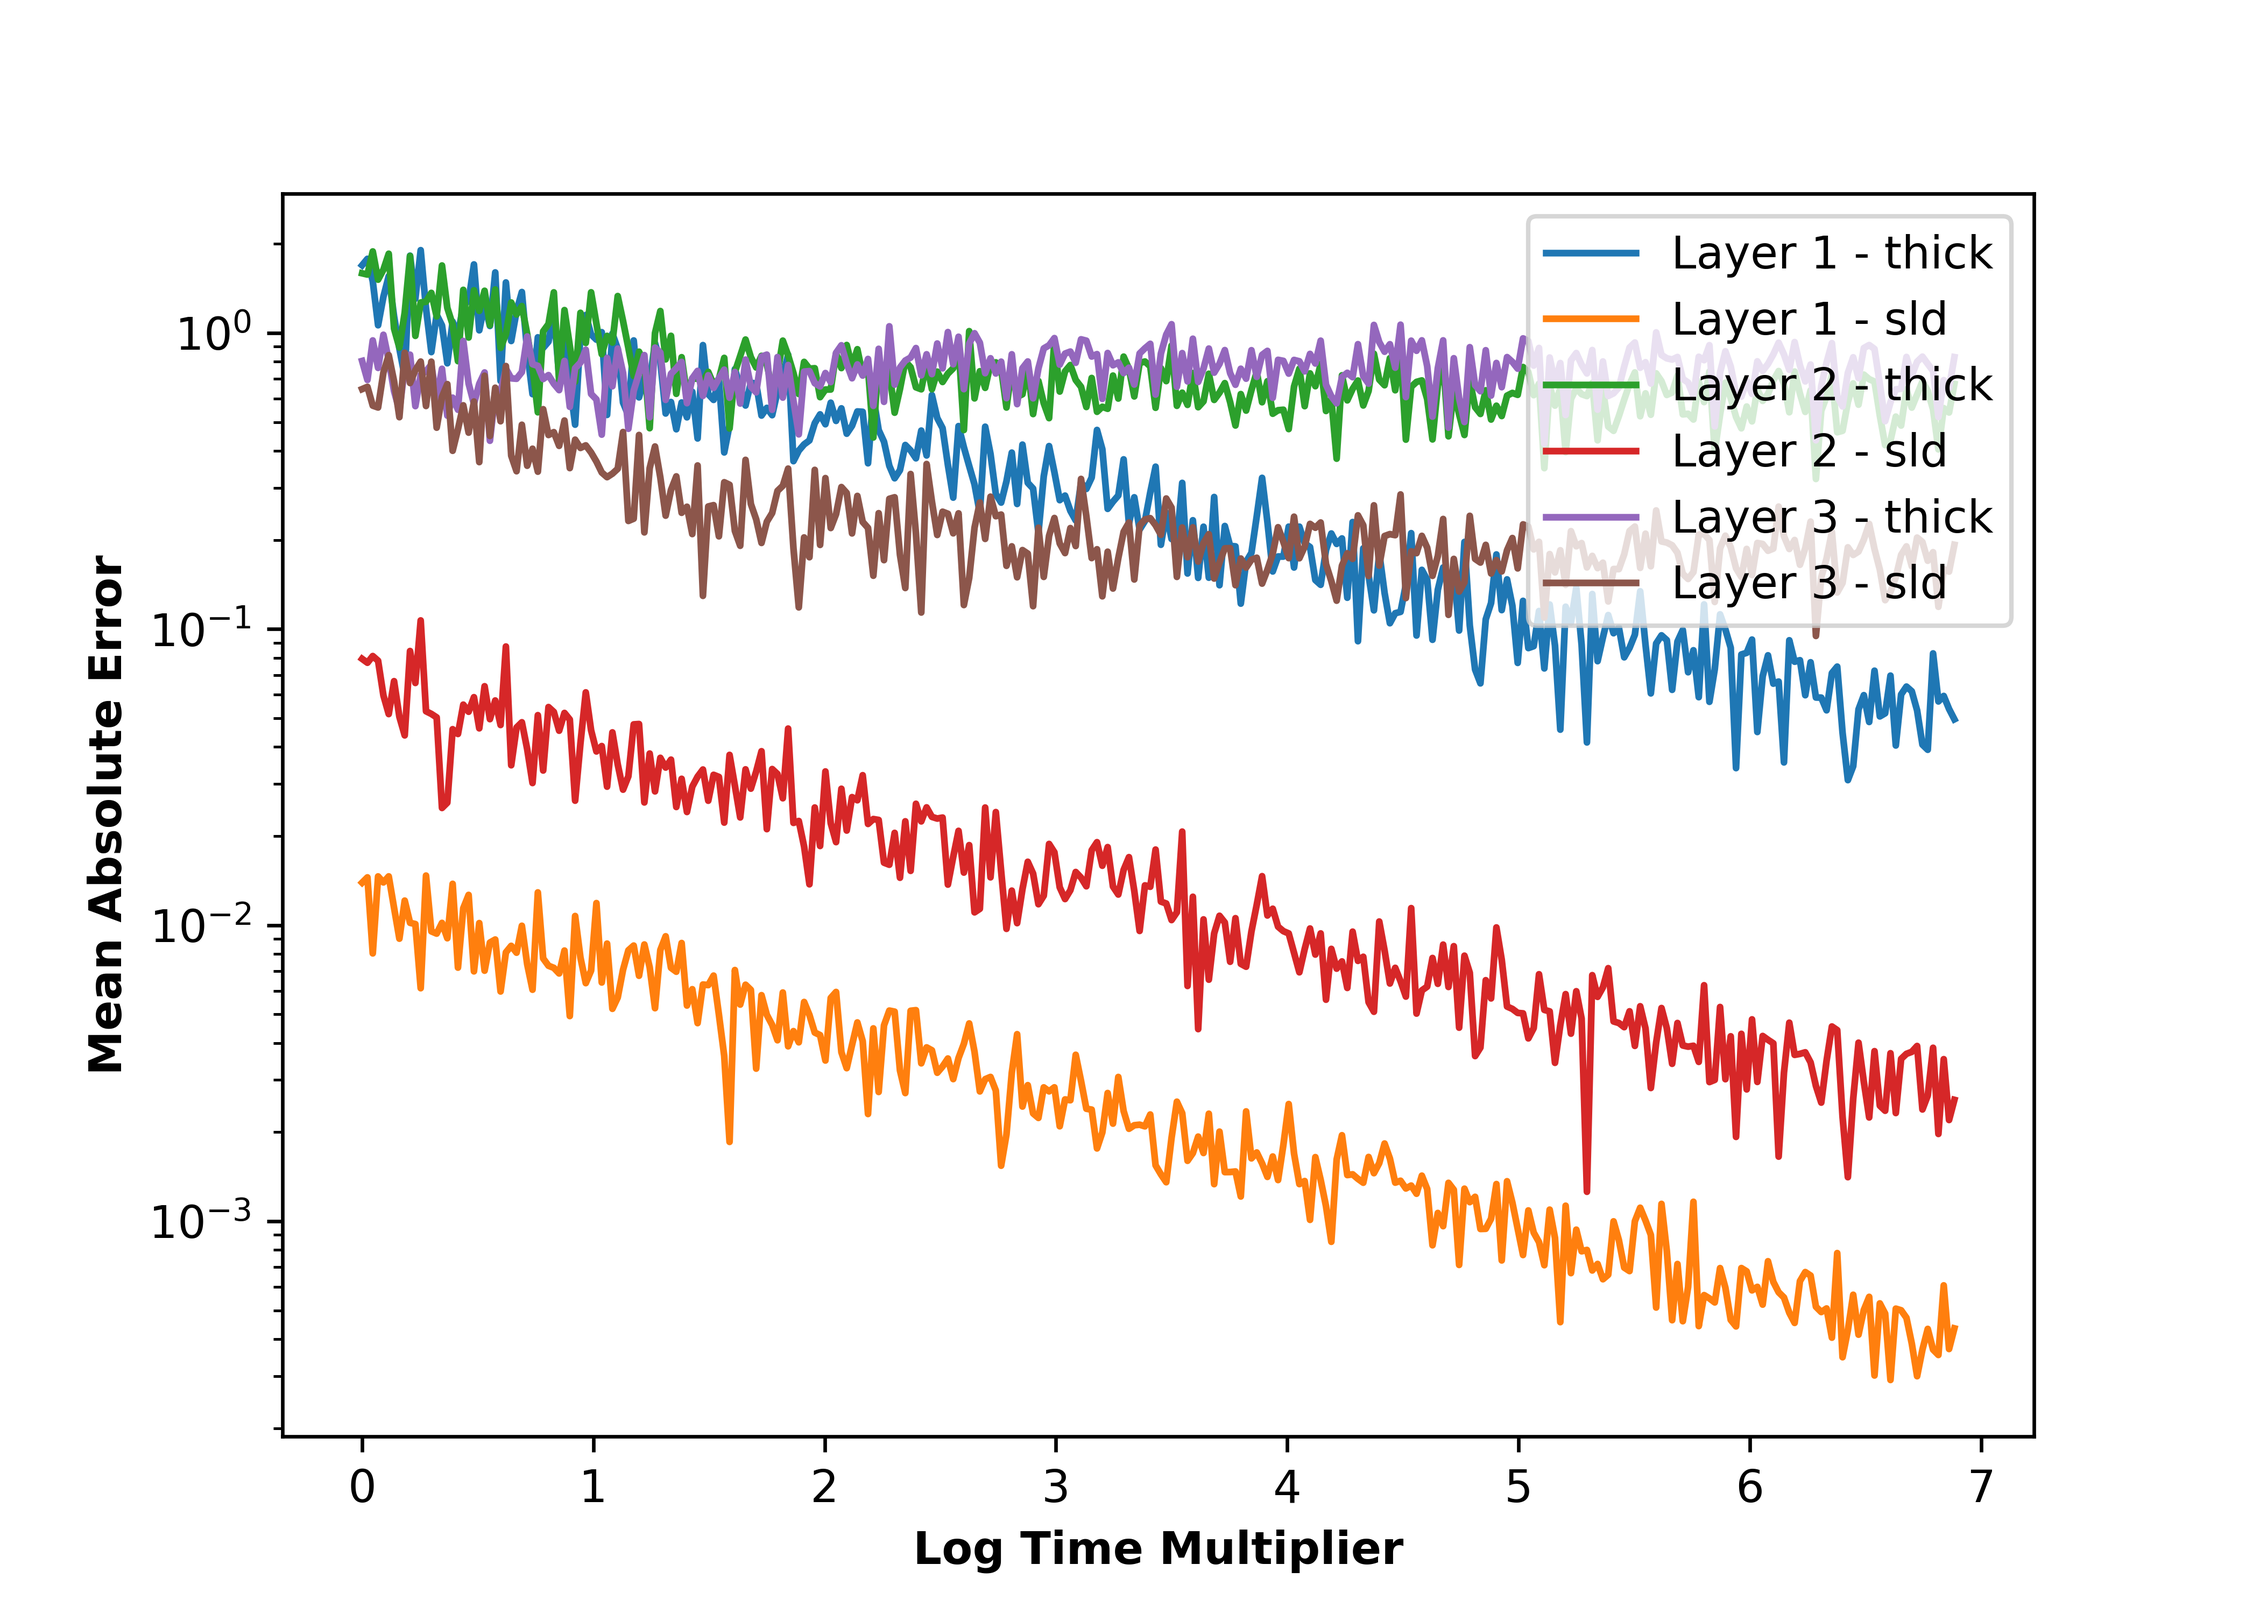
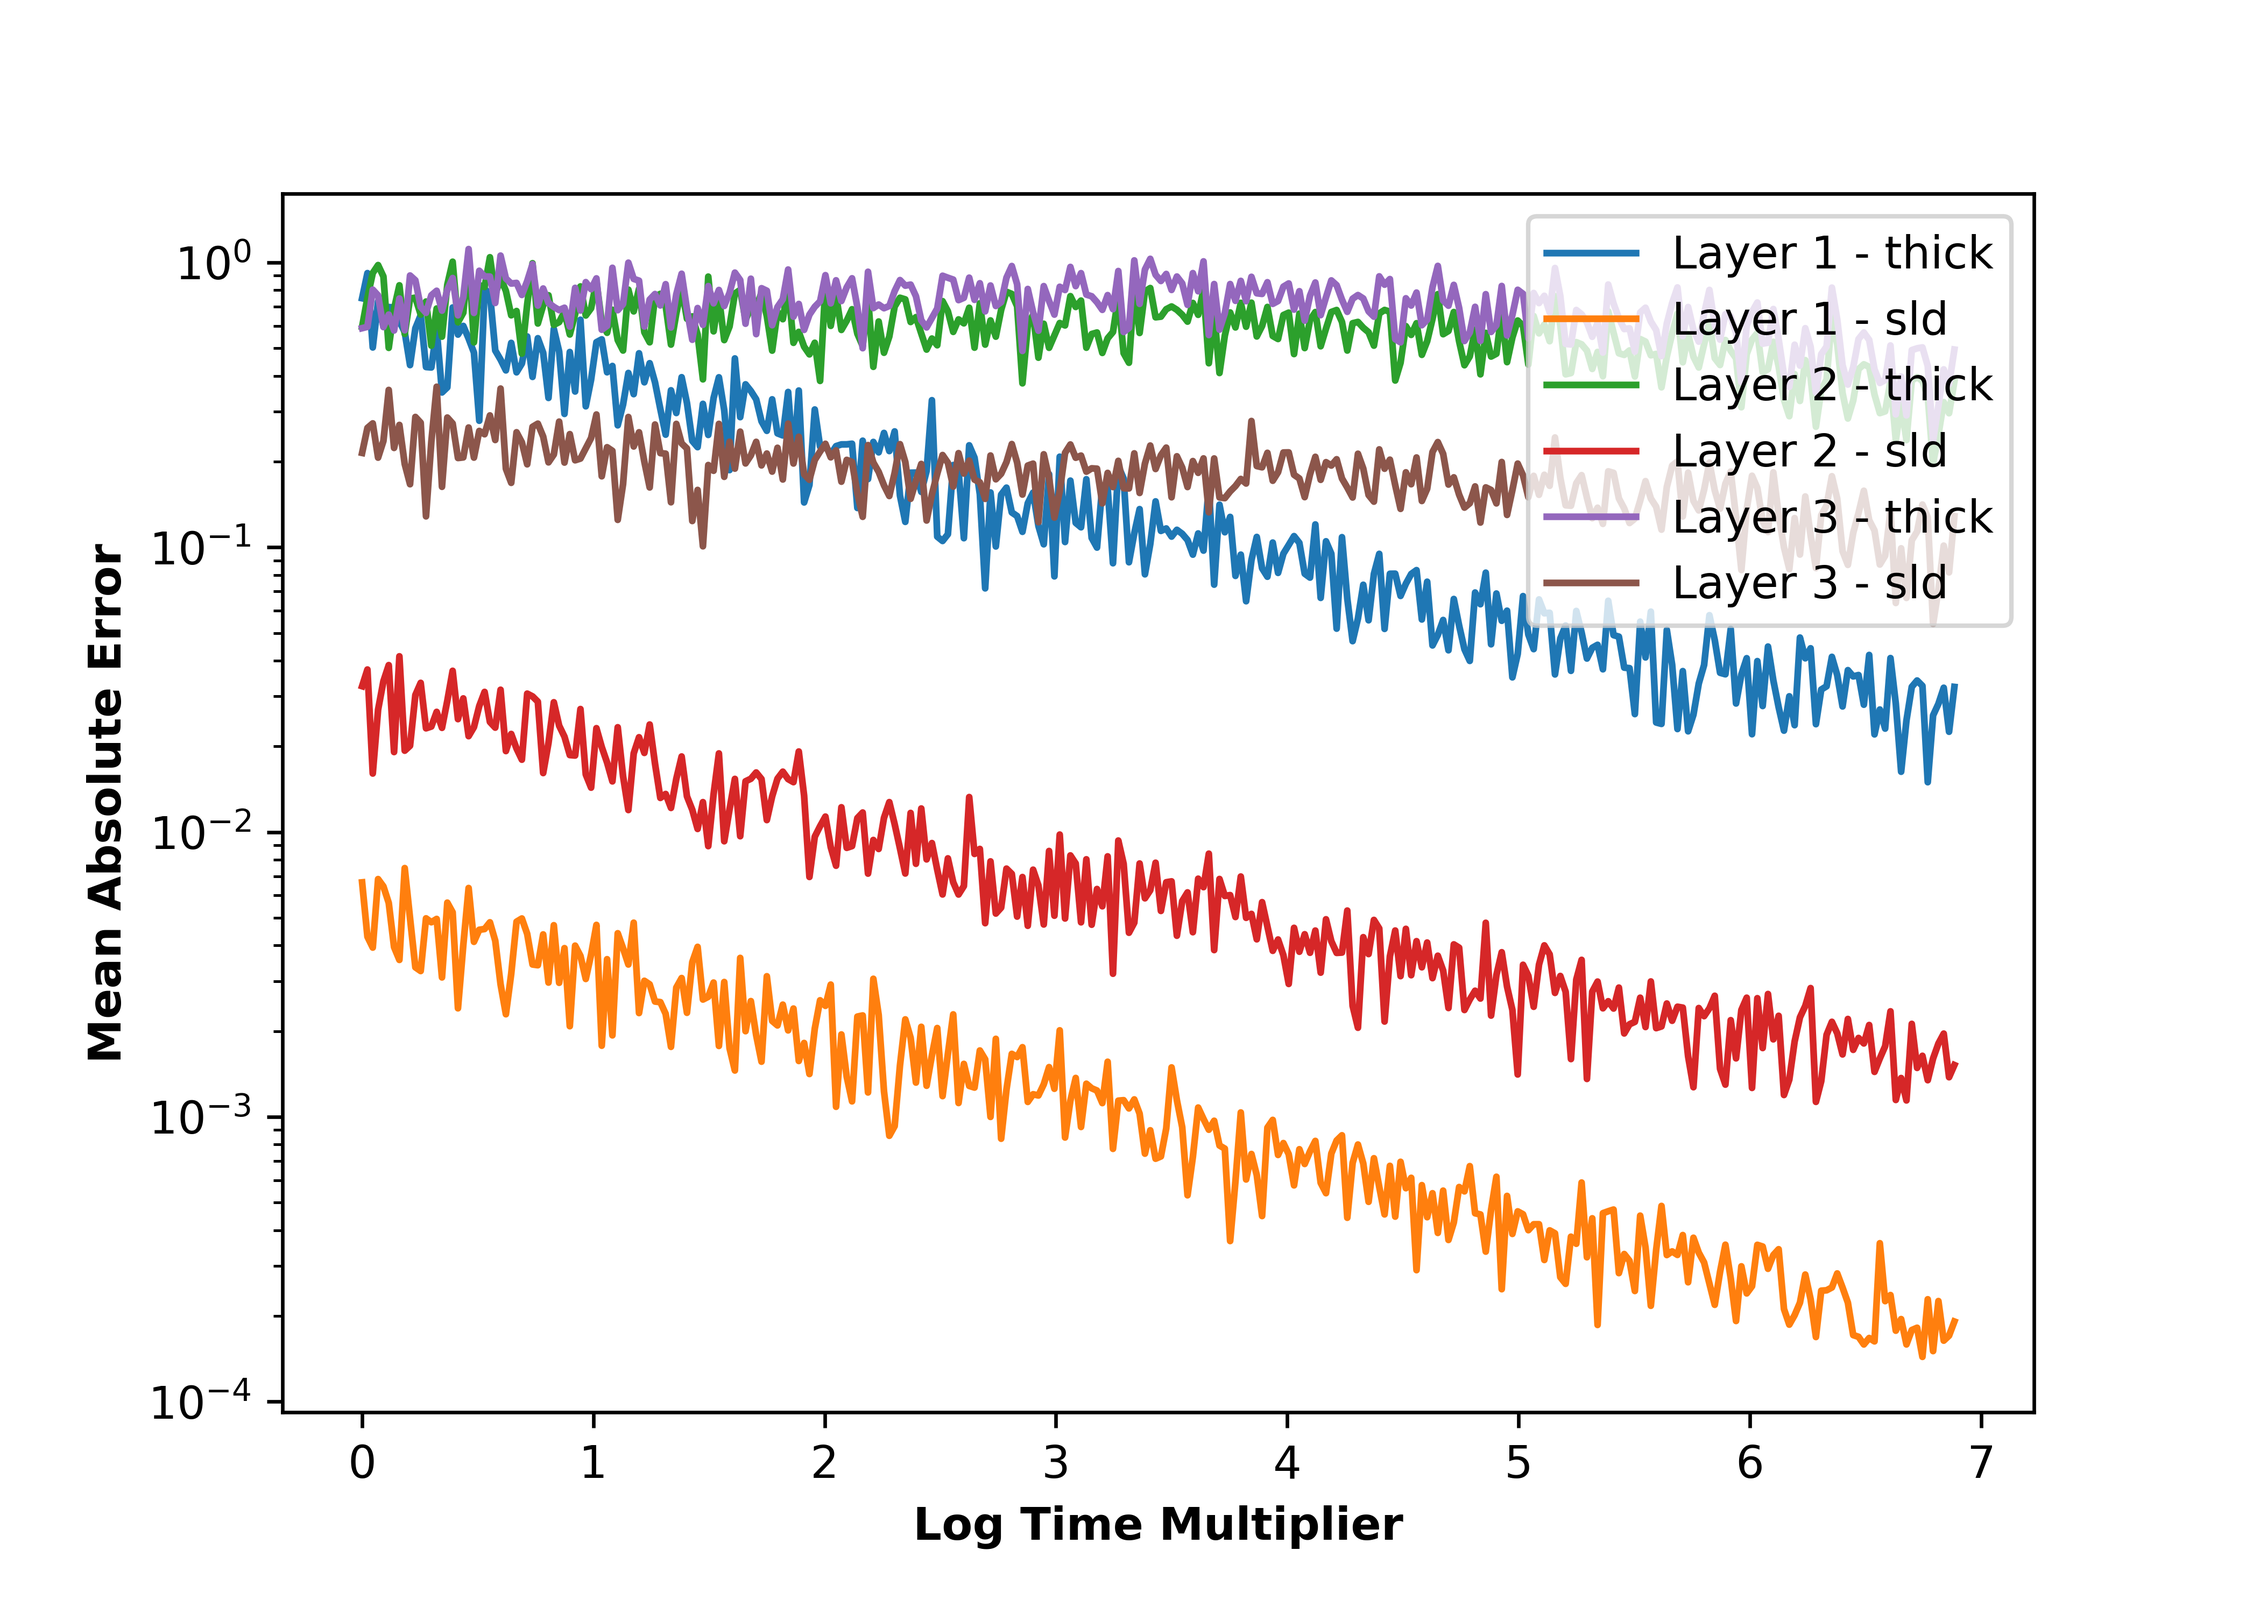
Updated time dependence plots
Changed FIM to Fisher Information

diff --git a/fisher-information/time_dependence.py b/fisher-information/time_dependence.py
@@ -287,6 +287,7 @@ def plot_fitting_error(multipliers: ArrayLike, errors: ArrayLike, names: List[st
 
     ax.set_xlabel('Log Time Multiplier', weight='bold')
     ax.set_ylabel('Mean Absolute Error', weight='bold')
+    ax.set_yscale('log')
     ax.legend(loc='upper right')
 
     save_plot(fig, save_path, 'fitting_error_vs_time')
@@ -303,7 +304,7 @@ if __name__ == '__main__':
                    2.0: (70, 20)}
 
     # Investigates how FI and fitting uncertainties change with time.
-    multipliers = 10**np.arange(0, 3, 0.01, dtype=float)
+    multipliers = 10**np.arange(0, 3, 0.05, dtype=float)
     compare_uncertainties(structure, angle_times, multipliers, save_path)
 
     # Investigates how the time dependence relationship holds in practice.
